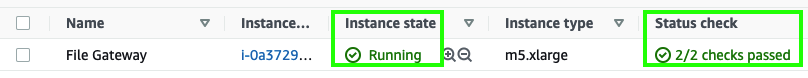
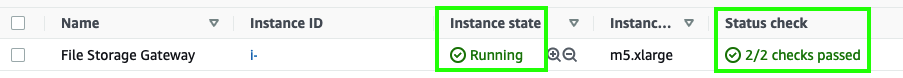
Update

diff --git a/content/30_storagegateway/20_filegateway.md b/content/30_storagegateway/20_filegateway.md
@@ -18,32 +18,33 @@ aws ssm get-parameter --name /aws/service/storagegateway/ami/FILE_S3/latest --re
 4. Copie la siguiente URL y sustituya el valor de **ami-id** por el valor de **value** resultado de la ejecución del comando del paso anterior:
 
 :::code{showCopyAction=true showLineNumbers=false language=java}
-https://console.aws.amazon.com/ec2/v2/home?region=us-east-1#LaunchInstanceWizard:ami=ami-id
+https://us-east-1.console.aws.amazon.com/ec2/v2/home?region=us-east-1#LaunchInstances:ami=**ami-id**
 :::
 
 5. Una vez que haya sustituido los valores, copie la URL y péguela en su navegador web. Esta URL lo llevará a desplegar File Gateway como una instancia de Amazon EC2.
-6. Seleccione **m5.xlarge** como tipo de instancia.
+6. Ingrese **File Storage Gateway** en el campo de **Name**.
+7. Seleccione **m5.xlarge** como tipo de instancia.
 
 ![Tipo de instancia](/static/images/sg/instancetypesg.png)
 
-7. Del menú desplegable de **Key pair**, elija **Proceed without a key pair**.
+8. Del menú desplegable de **Key pair**, elija **Proceed without a key pair**.
 
 ![Proceed without a key pair](/static/images/sg/nokeypair.png)
 
-8. Haga clic en **Edit** en el apartado de **Network settings**.
-9. En **VPC**, seleccione la VPC **Lab-Migracion-datos-VPC**.
+9. Haga clic en **Edit** en el apartado de **Network settings**.
+10. En **VPC**, seleccione la VPC **Lab-Migracion-datos-VPC**.
 
 ![VPC](/static/images/sg/requiredvpc.png)
 
-10. Bajo el apartado de **Auto-assign public IP** elija **Enable**.
+11. Bajo el apartado de **Auto-assign public IP** elija **Enable**.
 
 ![Auto-assign public IP - Enable](/static/images/sg/auto-assign-publicip.png)
 
-11. En el apartado de **Firewall (security groups)** seleccione la opción de **Create security group** e ingrese un nombre en el campo de **Security group name** (**storage-gateway-sg**).
+12. En el apartado de **Firewall (security groups)** seleccione la opción de **Create security group** e ingrese un nombre en el campo de **Security group name** (**storage-gateway-sg**).
 
 ![Security group](/static/images/sg/sg.png)
 
-12. Bajo el apartado de **Inbound security groups rules**, elimine la regla que permite el acceso al puerto 22 (SSH) y agregue dos reglas nuevas que habilite el acceso al puerto TCP 80 (HTTP) desde su dirección IP y al acceso al puerto TCP 2049 (NFS) desde la dirección IP privada de la instancia cliente:
+13. Bajo el apartado de **Inbound security groups rules**, elimine la regla que permite el acceso al puerto 22 (SSH) y agregue dos reglas nuevas que habilite el acceso al puerto TCP 80 (HTTP) desde su dirección IP y al acceso al puerto TCP 2049 (NFS) desde la dirección IP privada de la instancia cliente:
 
 * Regla 1:
 * Type = **HTTP**
@@ -55,49 +56,53 @@ https://console.aws.amazon.com/ec2/v2/home?region=us-east-1#LaunchInstanceWizard
 
 ![Security group](/static/images/sg/sg2.png)
 
-13. Bajo el apartado de **Configure storage** haga clic en **Add new volume** y agregue un volumen con las siguientes caraceterísticas:
+14. Bajo el apartado de **Configure storage** haga clic en **Add new volume** y agregue un volumen con las siguientes caraceterísticas:
 
 - Capacidad (GiB) = **150**
 - Tipo de volumen  EBS = **Magnetic (standard)**
 
 ![Volumen adicional](/static/images/sg/storage.png)
 
-14. Haga clic en **Launch**.
-15. Haga clic en **View all instances**.
+15. Haga clic en **Launch**.
+16. Haga clic en **View all instances**.
 
+![View instances](/static/images/sg/viewinstances.png)
 
-
-
-
-
-
-
-
-
-
-
-
-
-18. Dentro de la consola de AWS, haga clic en **Services** y diríjase al servicio de **EC2**.
-19. Asegúrese de que la instancia de su agente indique **<span style="color\:green">✔ Running</span>** bajo el apartado de **Instance State** y **<span style="color\:green">2/2 checks passed</span>** bajo el apartado de **Status check**.
+17. De regreso en la consola de EC2, asegúrese de que la instancia de su agente indique **✔ Running** bajo el apartado de **Instance State** y **✔ 2/2 checks passed** bajo el apartado de **Status check**.
 
 ![Status check passed (2/2)](/static/images/sg/statuscheck.png)
 
-20. Seleccione la casilla de **File Gateway**, copie la dirección IP pública, y guárdela en un archivo de texto.
-21. Haga clic en **Services** y después en **Storage Gateway**.
-22. Haga clic en **Get Started** o **Create Gateway** según sea el caso.
-23. En **Select gateway type** seleccione **Amazon S3 File Gateway** y haga clic en **Next**.
-24. En **Select host platform** seleccione **Amazon EC2** y haga clic en **Next**.
-25. En **Service endpoint** seleccione **Public** y haga clic en **Next**.
-26. En **Connect to gateway** ingrese la IP de **StorageGatewayPublicIp** en el campo de **IP address** y haga clic en **Next**.
-27. En **Activate Gateway** seleccione la zona horaria de su localidad en el menú desplegable de **Gateway time zone**.
-28. Ingrese un nombre para su Gateway en el campo de **Gateway name** (ejemplo: **File Gateway Lab**) .
-29. Haga clic en **Activate Gateway**.
-30. Haga clic en **Exit**.
-31. Haga clic en **Gateways** en el menú lateral izquierdo.
-32. Seleccione la casilla del **Gateway** que acaba de crear y asegúrese que el status de su Gateway sea **<span style="color\:red">! Running</span>**.
-33. Haga clic en el menú desplegable de **Actions** y después en **Edit local disks** (para ejecutar este paso probablemente tenga que esperar unos minutos a que el gateway termine de crearse por completo).
-34. Seleccione **Cache** del menú desplegable de **Allocated to**.
-35. Haga clic en **Save**.
-36. Corrobore que el status del gateway ahora sea **<span style="color\:green">✔ Running**</span>.
-37. Proceda al siguiente módulo.
+18. Seleccione la casilla de **File Storage Gateway**, copie la dirección **IP PÚBLICA**, y guárdela en un archivo de texto.
+
+![IP pública](/static/images/sg/ippublica.png)
+
+19. Haga clic en **Services** y después en **Storage Gateway**.
+20. Haga clic en **Get Started** o **Create Gateway** según sea el caso.
+21. En el campo de **Gateway name** ingrese **File storage gateway lab**.
+22. Seleccione su zona horaria bajo el menu desplegable de **Gateway time zone**.
+23. Seleccione **Amazon S3 File Gateway** bajo **Gateway type**.
+24. Selccione **Amazon EC2** bajo **Host platform**.
+
+![Create gateway](/static/images/sg/creategateway.png)
+
+25. Al final de la página seleccione la opción de **I completed all the steps above and launched the EC2 instance**.
+26. Haga clic en **Next**.
+
+![Confirm set up gateway](/static/images/sg/confirm.png)
+
+27. Bajo el apartado de **Service endpoint** seleccione **Publicly accesible**.
+28. Bajo el apartado de **Connection options** seleccione IP address.
+29. En el campo de **IP address** ingrese la dirección **IP PÚBLICA** que guardó anteriormente.
+30. Haga clic en **Next**.
+
+![Endpoint options](/static/images/sg/endpointoptions.png)
+
+31. En la pantalla de **Review and activate** haga clic en **Next**.
+32. En la siguiente pantalla seleccione **Cache** en el menú desplegable de **Allocated to** bajo el apartado de **Configure cache storage**.
+
+![Configure gateway](/static/images/sg/configuregateway.png)
+
+::alert[Este apartado puede tardar unos minutos en habilitarse.]{type="info"}
+
+33. Haga clic en **Configure**.
+34. Proceda al siguiente módulo.

diff --git a/content/30_storagegateway/10_preparacion.md b/content/30_storagegateway/10_preparacion.md
@@ -30,4 +30,4 @@ A continuación, desplegará una plantilla de AWS CloudFormation que creará una
 ![CloudFormation](/static/images/sg/acknowledgerole.png)
 
 11. Espere unos minutos a que el status de lanzamiento de la plantilla indique **CREATE_COMPLETE**.
-12. Una vez que la plantilla haya sido desplegada, haga click en la sección de ***Outputs*** y copie el valor del parámetro ***ClientInstancePrivateIP*** (la dirección IP privada de la instancia cliente) y guárdelo en un archivo de texto ya que lo utilizará más adelante. En este apartado también encontrará el nombre del bucket que se creó para almacenar sus datos una vez que estos sean migrados.
+12. Una vez que la plantilla haya sido desplegada, haga click en la sección de **Outputs** y copie el valor del parámetro **ClientInstancePrivateIP** (la dirección IP privada de la instancia cliente) y guárdelo en un archivo de texto ya que lo utilizará más adelante. En este apartado también encontrará el nombre del bucket que se creó para almacenar sus datos una vez que estos sean migrados.

diff --git a/content/20_datasync/20_agente.md b/content/20_datasync/20_agente.md
@@ -12,7 +12,7 @@ https://console.aws.amazon.com/ec2/v2/home?region=us-east-1#LaunchInstanceWizard
 :::
 
 2. Una vez que haya sustituido los valores, copie la URL y péguela en su navegador web. Esta URL lo llevará a desplegar el agente de AWS DataSync como una instancia de Amazon EC2.
-3. Ingrese **Agente AWS DataSync** en el campo de **Name**
+3. Ingrese **Agente AWS DataSync** en el campo de **Name**.
 4. Del menú desplegable de **Instance type**, seleccione **m5.2xlarge**.
 
 ![Tipo de instancia](/static/images/ds/instancetype.png)
